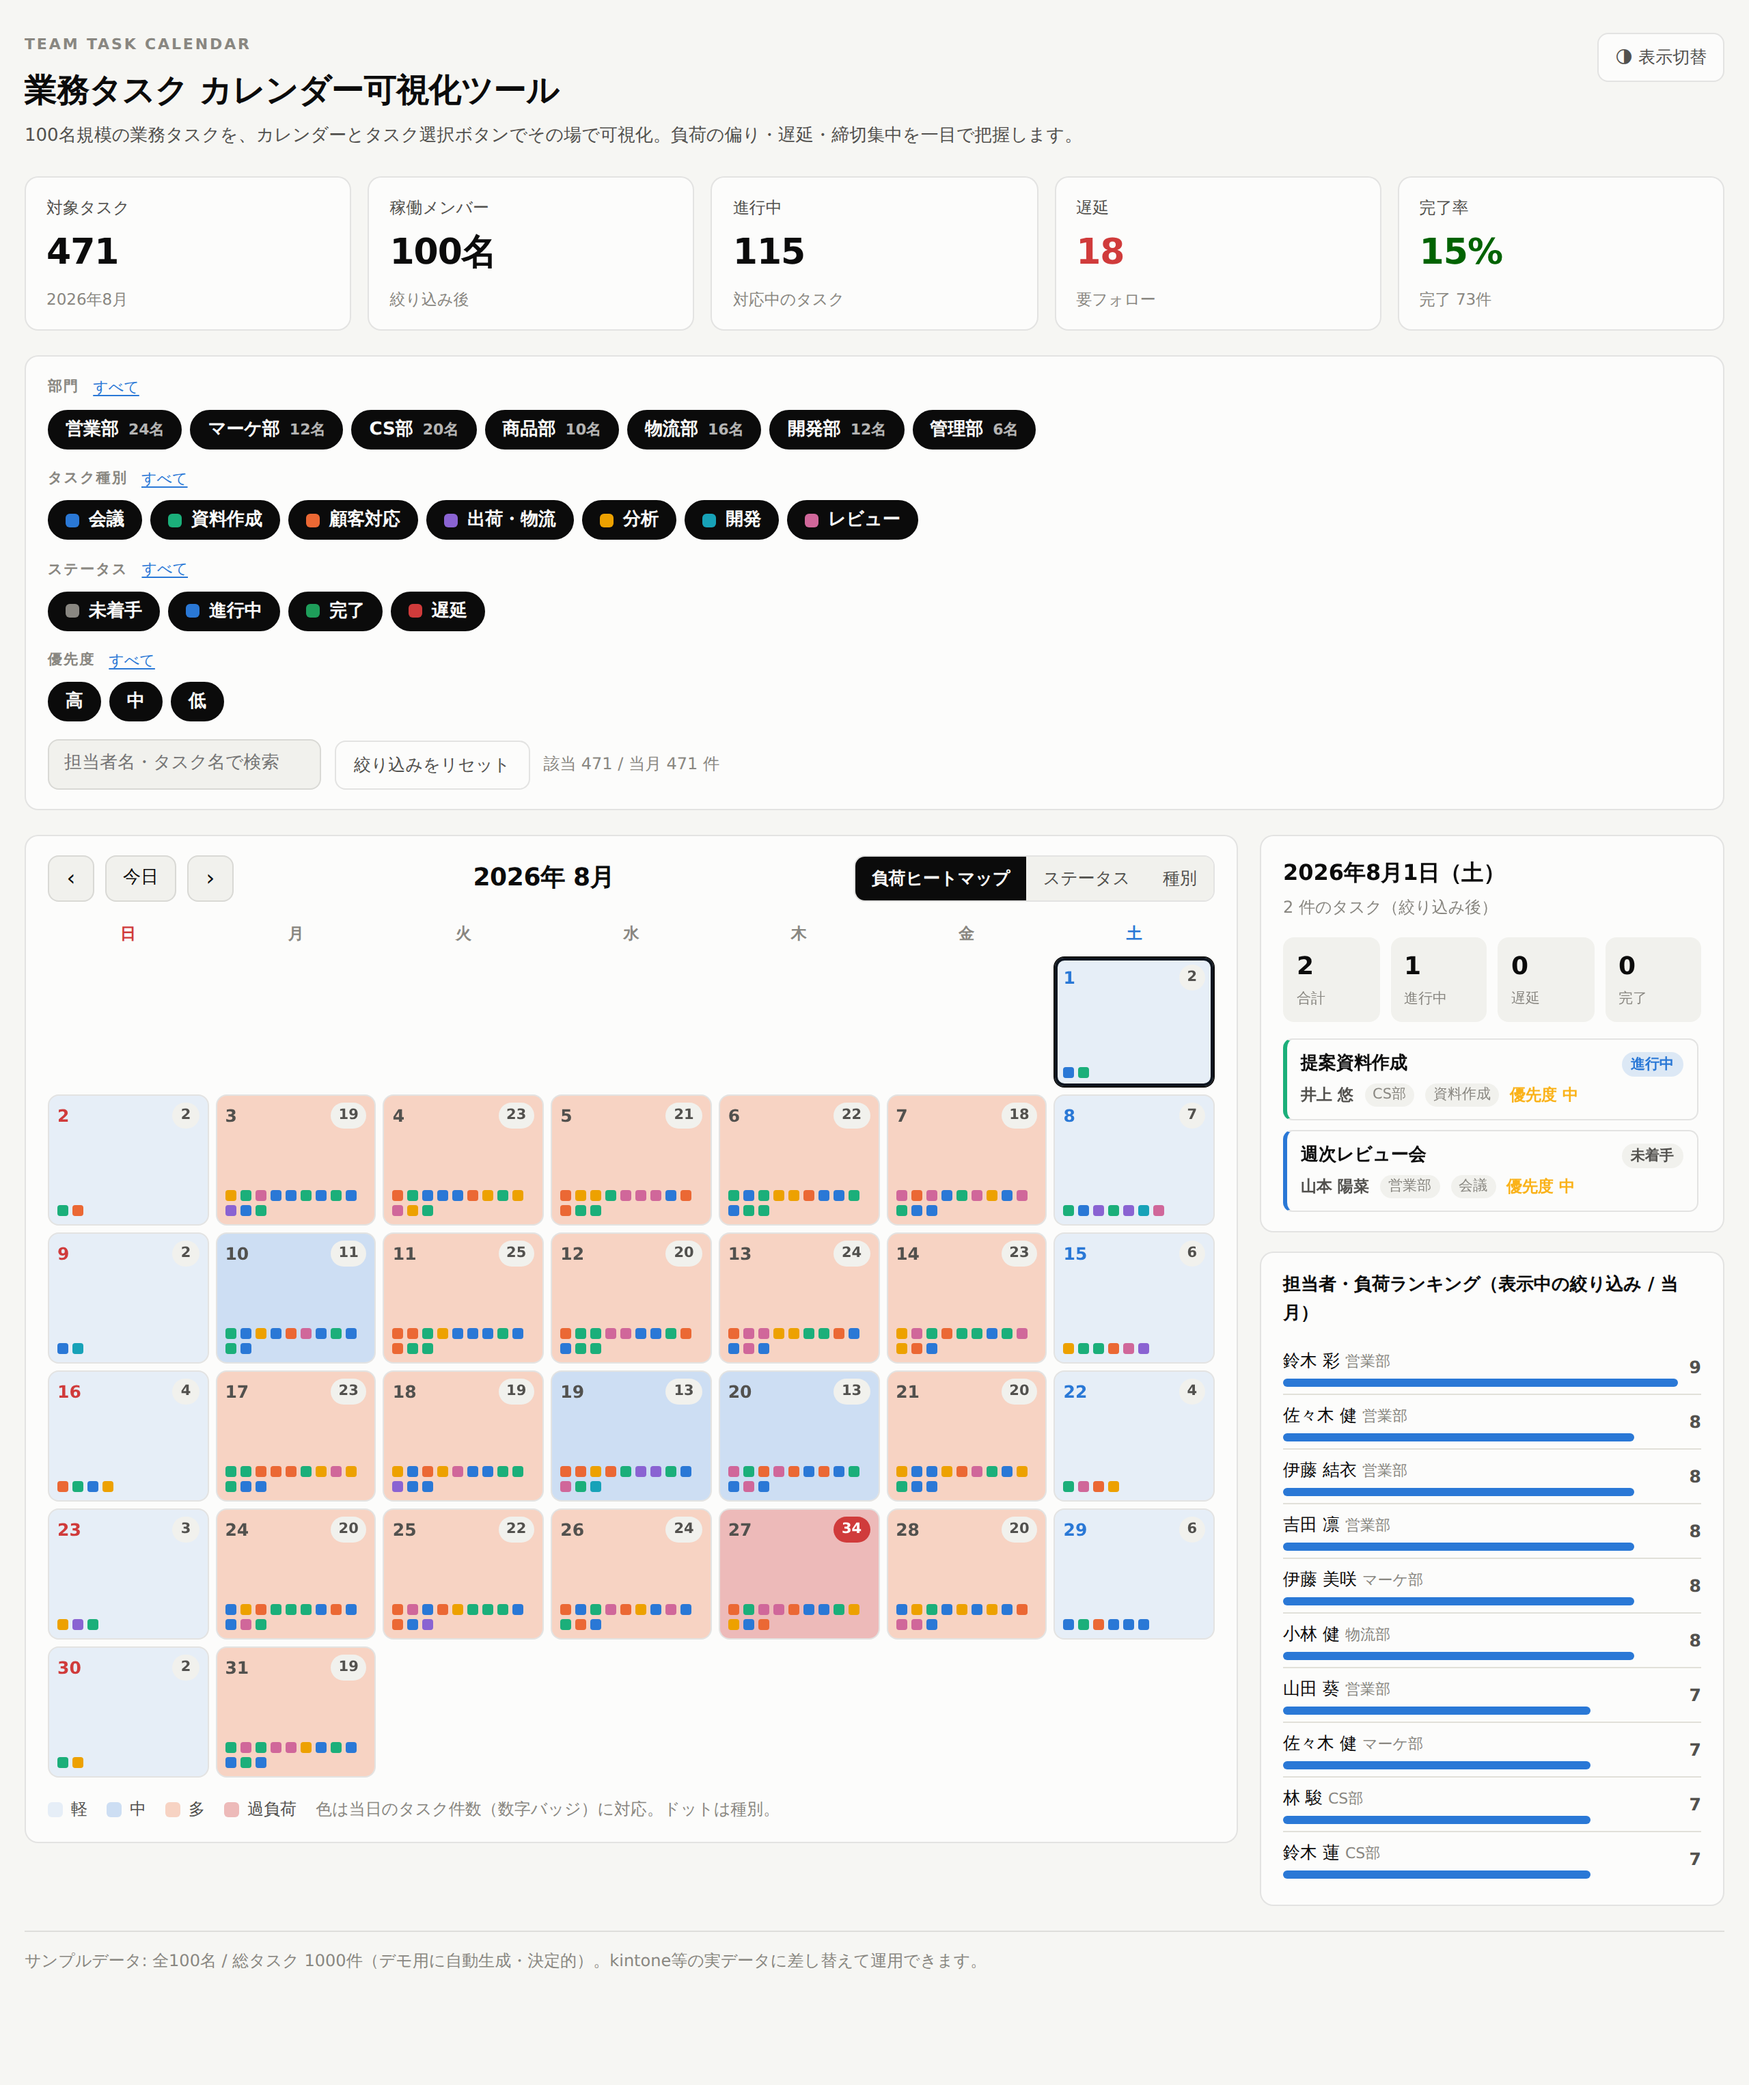
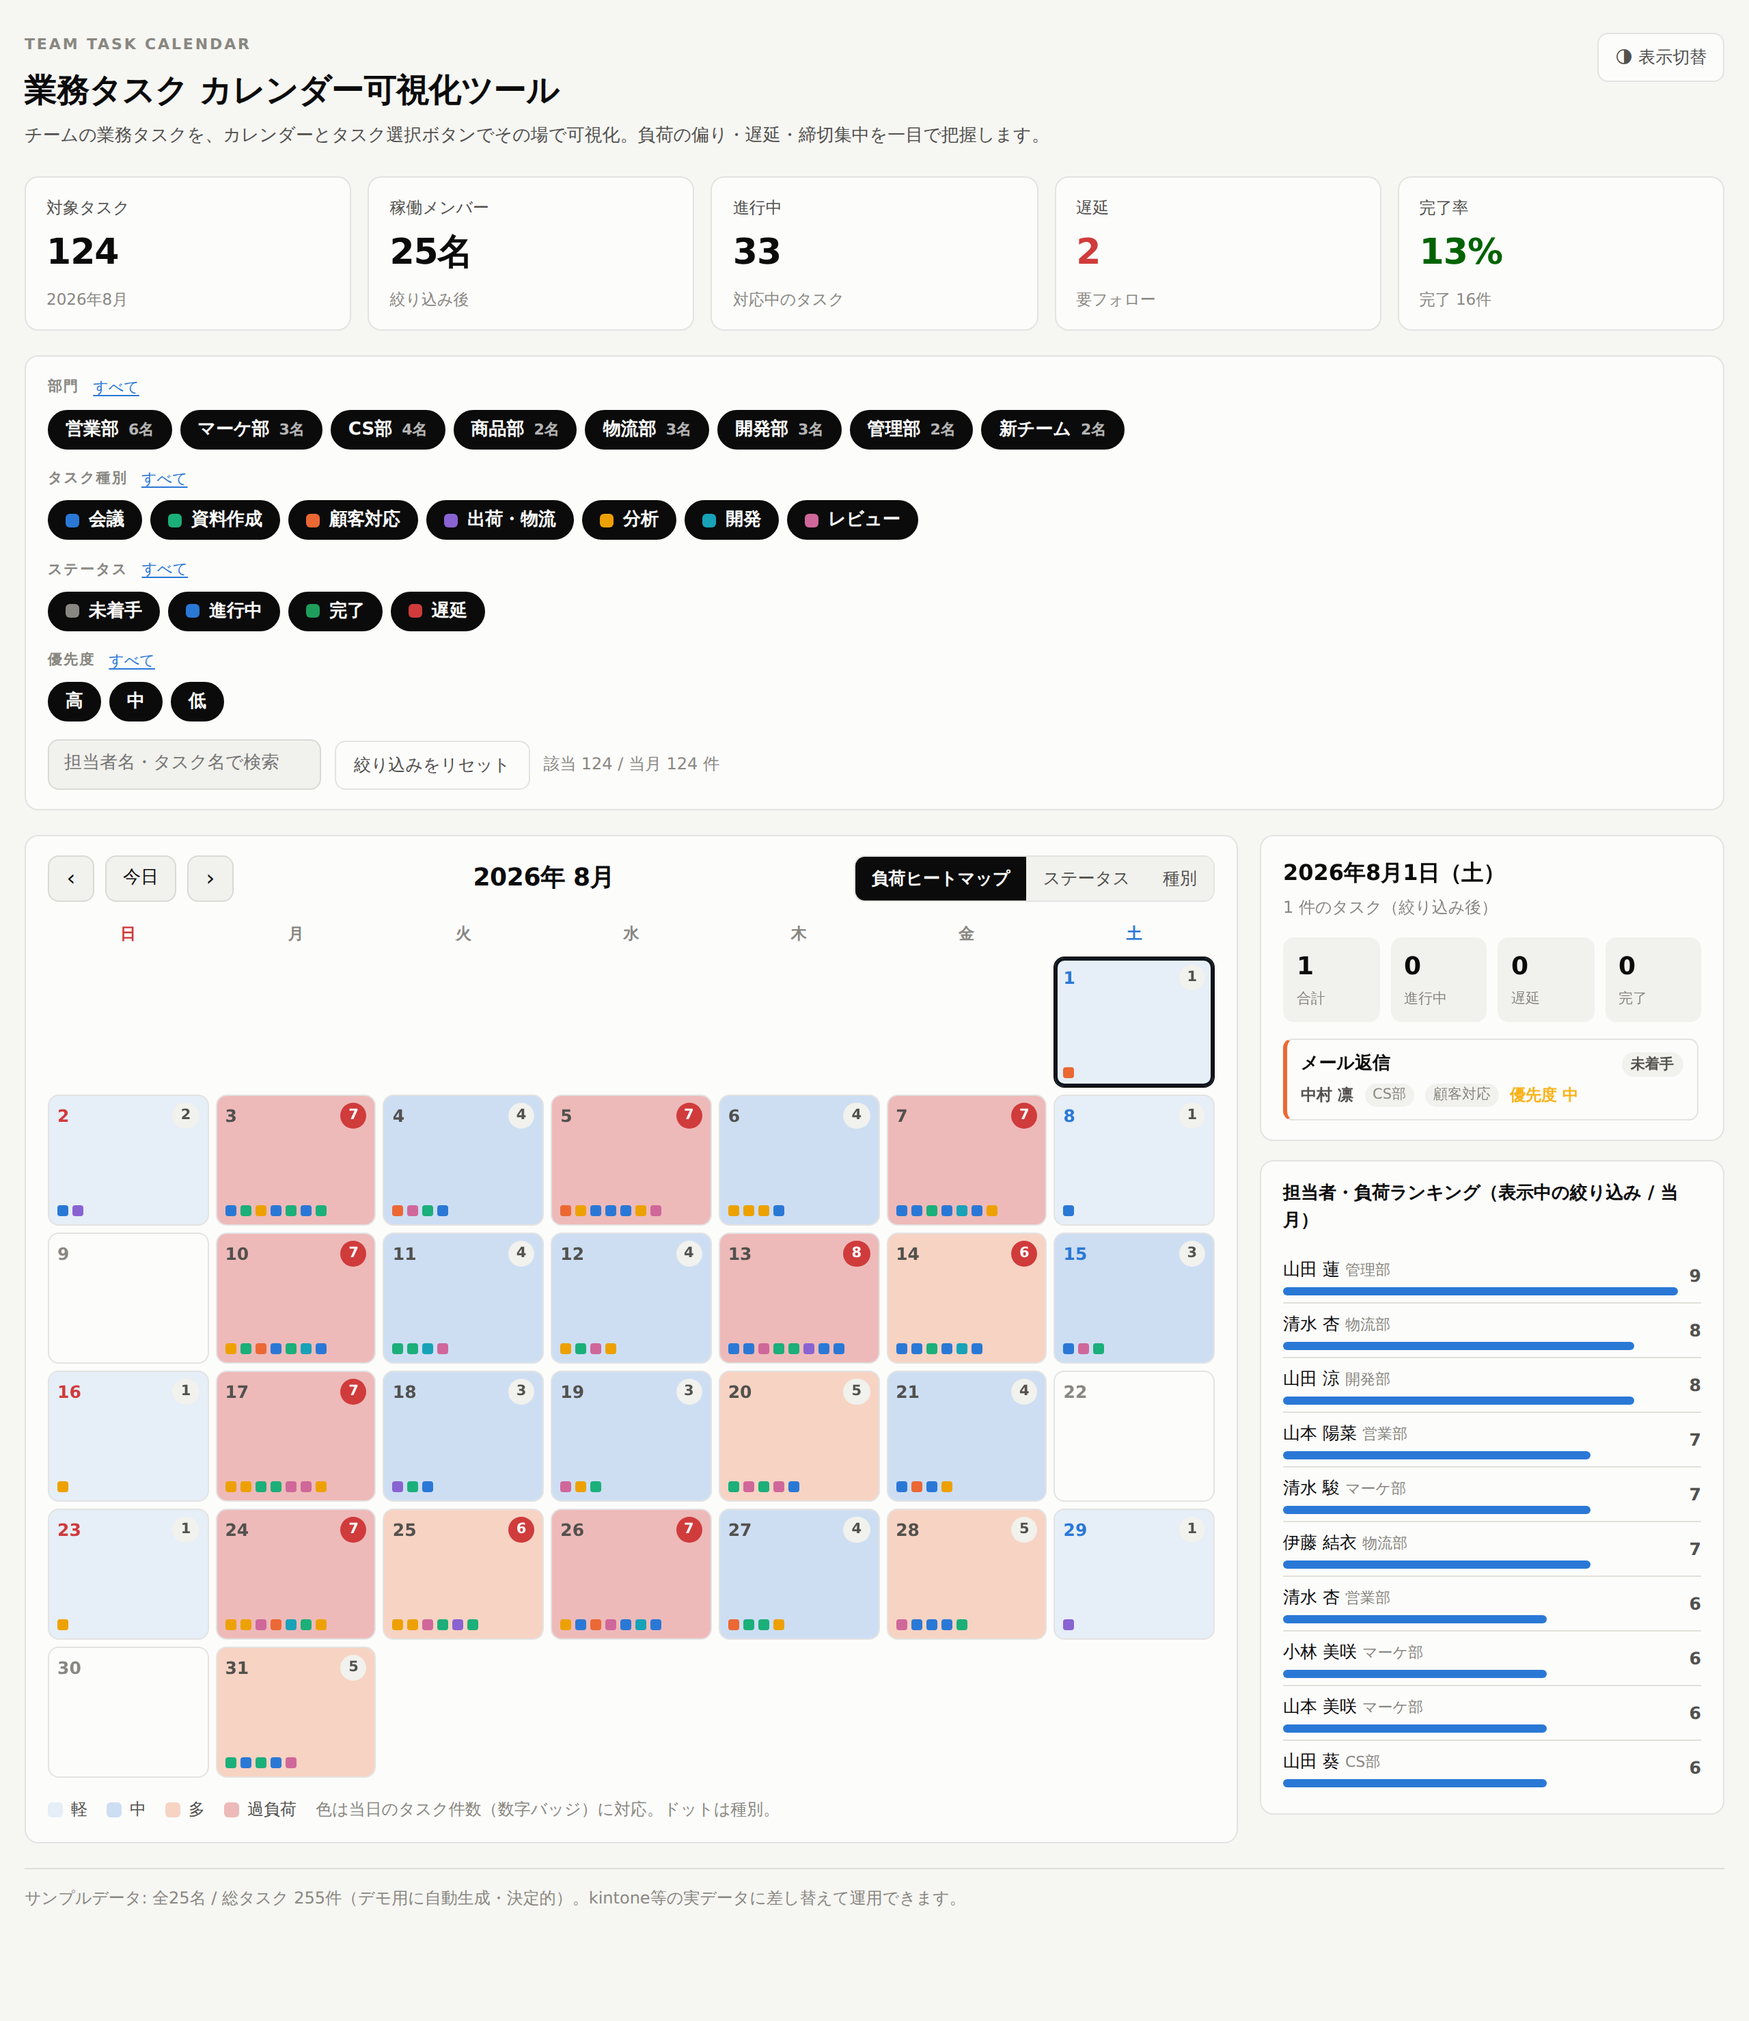
サンプルを25名構成に変更し「新チーム」を追加（イーロン・マスク配属）
- メンバーを100名→25名に縮小（部門別の内訳を再配分）
- 部門に「新チーム」を追加し、固定メンバーとしてイーロン・マスクを配属
- 見出し・READMEの表記を規模非依存に更新（サンプル約250件）

Claude-Session: https://claude.ai/code/session_01Xuy3PyEQjUUU5Nj9LFjRe2

diff --git a/task-calendar/index.html b/task-calendar/index.html
@@ -245,7 +245,7 @@
     <div class="lead">
       <span class="eyebrow">Team Task Calendar</span>
       <h1>業務タスク カレンダー可視化ツール</h1>
-      <p class="sub">100名規模の業務タスクを、カレンダーとタスク選択ボタンでその場で可視化。負荷の偏り・遅延・締切集中を一目で把握します。</p>
+      <p class="sub">チームの業務タスクを、カレンダーとタスク選択ボタンでその場で可視化。負荷の偏り・遅延・締切集中を一目で把握します。</p>
     </div>
     <button class="theme-btn" id="themeBtn" type="button">🌗 表示切替</button>
   </div>
@@ -330,13 +330,14 @@
      マスタ定義
      ============================================================ */
   const DEPTS = [
-    { id: "sales",  name: "営業部" },
-    { id: "mkt",    name: "マーケ部" },
-    { id: "cs",     name: "CS部" },
-    { id: "prod",   name: "商品部" },
-    { id: "logi",   name: "物流部" },
-    { id: "dev",    name: "開発部" },
-    { id: "admin",  name: "管理部" },
+    { id: "sales",   name: "営業部" },
+    { id: "mkt",     name: "マーケ部" },
+    { id: "cs",      name: "CS部" },
+    { id: "prod",    name: "商品部" },
+    { id: "logi",    name: "物流部" },
+    { id: "dev",     name: "開発部" },
+    { id: "admin",   name: "管理部" },
+    { id: "newteam", name: "新チーム" },
   ];
   const CATS = [
     { id: "meeting", name: "会議",     v: "var(--c-meeting)" },
@@ -364,15 +365,16 @@
 
   // 部門ごとに使われやすい種別（サンプルを現実的にするため）
   const DEPT_CATS = {
-    sales: ["meeting","cs","doc","analyze","review"],
-    mkt:   ["analyze","doc","meeting","review"],
-    cs:    ["cs","doc","meeting"],
-    prod:  ["doc","review","meeting","analyze"],
-    logi:  ["ship","doc","meeting"],
-    dev:   ["dev","review","meeting","doc"],
-    admin: ["doc","meeting","analyze"],
+    sales:   ["meeting","cs","doc","analyze","review"],
+    mkt:     ["analyze","doc","meeting","review"],
+    cs:      ["cs","doc","meeting"],
+    prod:    ["doc","review","meeting","analyze"],
+    logi:    ["ship","doc","meeting"],
+    dev:     ["dev","review","meeting","doc"],
+    admin:   ["doc","meeting","analyze"],
+    newteam: ["meeting","analyze","dev","doc","review"],
   };
-  const DEPT_SIZE = { sales: 24, mkt: 12, cs: 20, prod: 10, logi: 16, dev: 12, admin: 6 }; // 計100名
+  const DEPT_SIZE = { sales: 6, mkt: 3, cs: 4, prod: 2, logi: 3, dev: 3, admin: 2, newteam: 2 }; // 計25名
 
   const SEI = ["佐藤","鈴木","高橋","田中","伊藤","渡辺","山本","中村","小林","加藤","吉田","山田","佐々木","山口","松本","井上","木村","林","清水","森"];
   const MEI = ["太郎","花子","健","美咲","翔","結衣","大輔","彩","涼","さくら","蓮","陽菜","颯太","楓","悠","杏","駿","凛","匠","葵"];
@@ -384,11 +386,15 @@
   function randint(a, b) { return a + Math.floor(rand() * (b - a + 1)); }
 
   /* ---- メンバー生成（100名） ---- */
+  // 固定メンバー（新チームにイーロン・マスクを配属）
+  const FIXED = { newteam: ["イーロン・マスク"] };
   const MEMBERS = [];
   let mid = 0;
   for (const d of DEPTS) {
+    const fixed = FIXED[d.id] || [];
     for (let i = 0; i < DEPT_SIZE[d.id]; i++) {
-      MEMBERS.push({ id: "u" + (++mid), name: pick(SEI) + " " + pick(MEI), dept: d.id });
+      const name = i < fixed.length ? fixed[i] : pick(SEI) + " " + pick(MEI);
+      MEMBERS.push({ id: "u" + (++mid), name, dept: d.id });
     }
   }
 

diff --git a/task-calendar/README.md b/task-calendar/README.md
@@ -1,6 +1,6 @@
 # 業務タスク カレンダー可視化ツール
 
-100名規模の業務タスクを、**カレンダー**と**タスク選択ボタン（フィルター）**でその場で可視化する単一HTMLツールです。
+チームの業務タスクを、**カレンダー**と**タスク選択ボタン（フィルター）**でその場で可視化する単一HTMLツールです。
 負荷の偏り・遅延・締切の集中を一目で把握できます。
 
 ## つかいかた
@@ -8,7 +8,9 @@
 `task-calendar/index.html` を **ダブルクリックしてブラウザで開くだけ**です。
 インストール不要・サーバー不要・ネット接続不要。1ファイルで完結します。
 
-（デモ用に **100名分・約1,000件** のタスクを内部で自動生成しています。数字は毎回同じになります。）
+（デモ用に **25名分・約250件** のタスクを内部で自動生成しています。数字は毎回同じになります。
+部門は「営業部・マーケ部・CS部・商品部・物流部・開発部・管理部・**新チーム**」の8チーム。
+新チームにはイーロン・マスクを配属しています。）
 
 ## できること
 

diff --git a/README.md b/README.md
@@ -6,7 +6,7 @@
 |--------------|------|
 | （リポジトリ直下 / `src/`） | **売上日報ツール**（下記）：「売上・転換率報告」アプリの自動構築・データ移行・分析 |
 | [`daily-report-system/`](./daily-report-system/) | **AI日報システム**：Kintone→Claude→LINE を n8n で自動化。社長・部長向け経営日報を毎日自動生成・通知。緊急案件は即時通知。 |
-| [`task-calendar/`](./task-calendar/) | **業務タスク カレンダー可視化ツール**：100名規模の業務タスクを、カレンダーとタスク選択ボタンでその場で可視化。負荷の偏り・遅延・締切集中を一目で把握。`index.html` を開くだけ。 |
+| [`task-calendar/`](./task-calendar/) | **業務タスク カレンダー可視化ツール**：チームの業務タスクを、カレンダーとタスク選択ボタンでその場で可視化。負荷の偏り・遅延・締切集中を一目で把握。`index.html` を開くだけ。 |
 
 > **AI日報システムをこれから導入する方へ**
 > パソコンが得意でなくても大丈夫です。まずは
